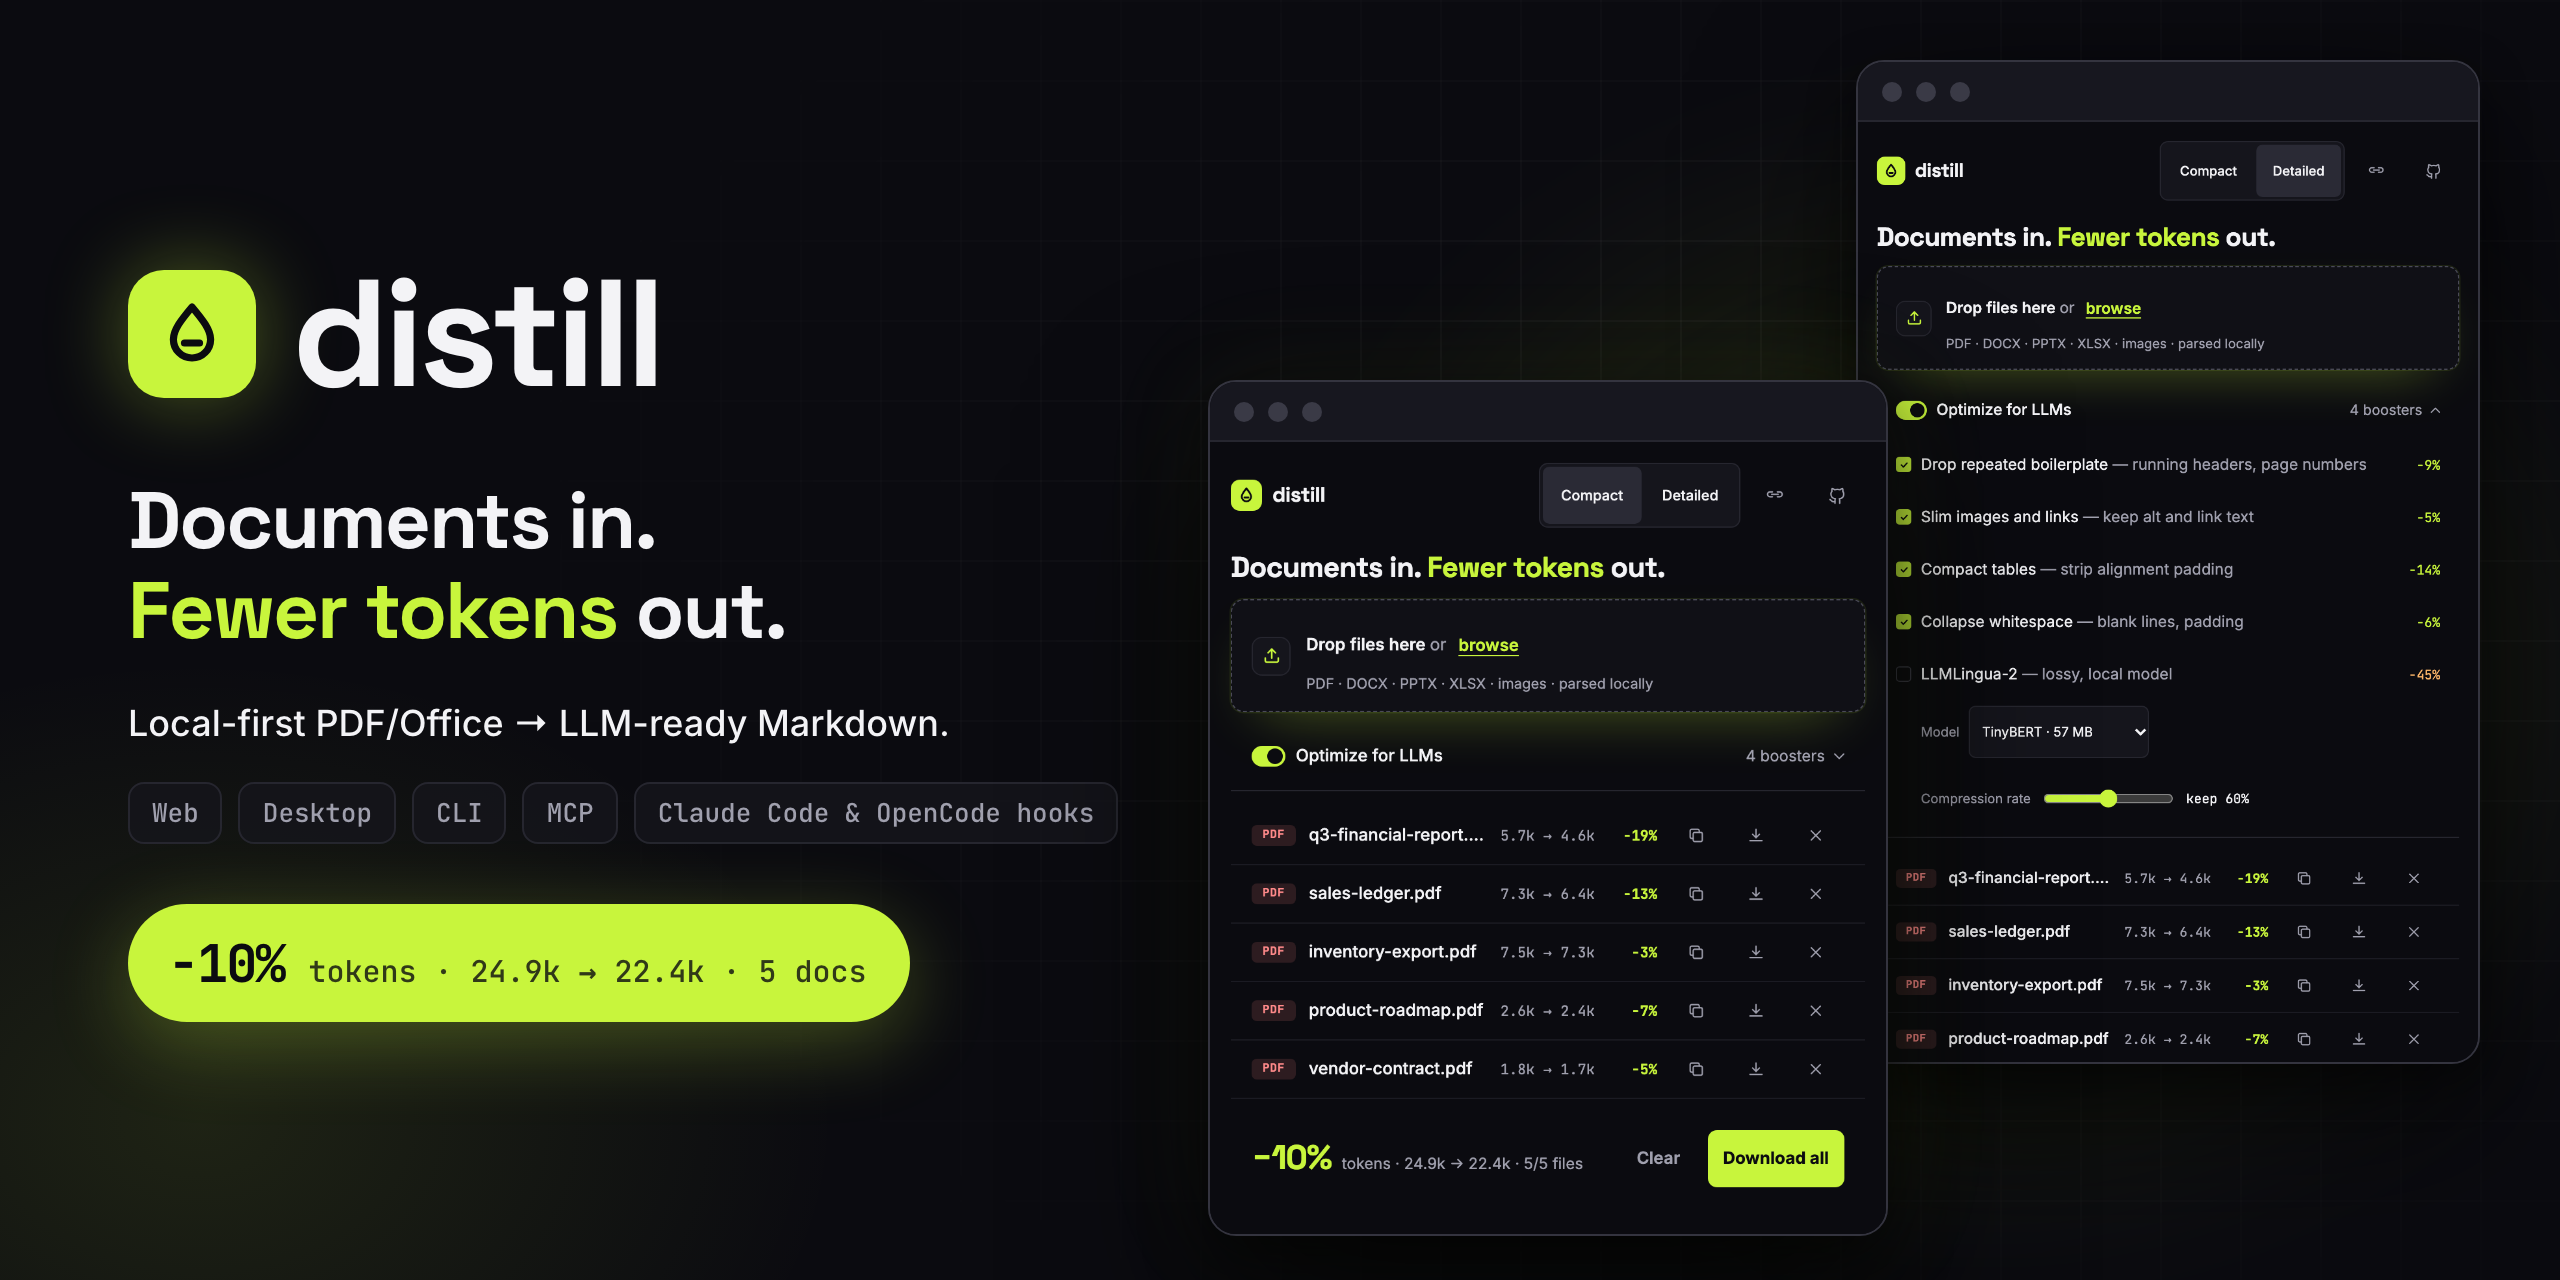
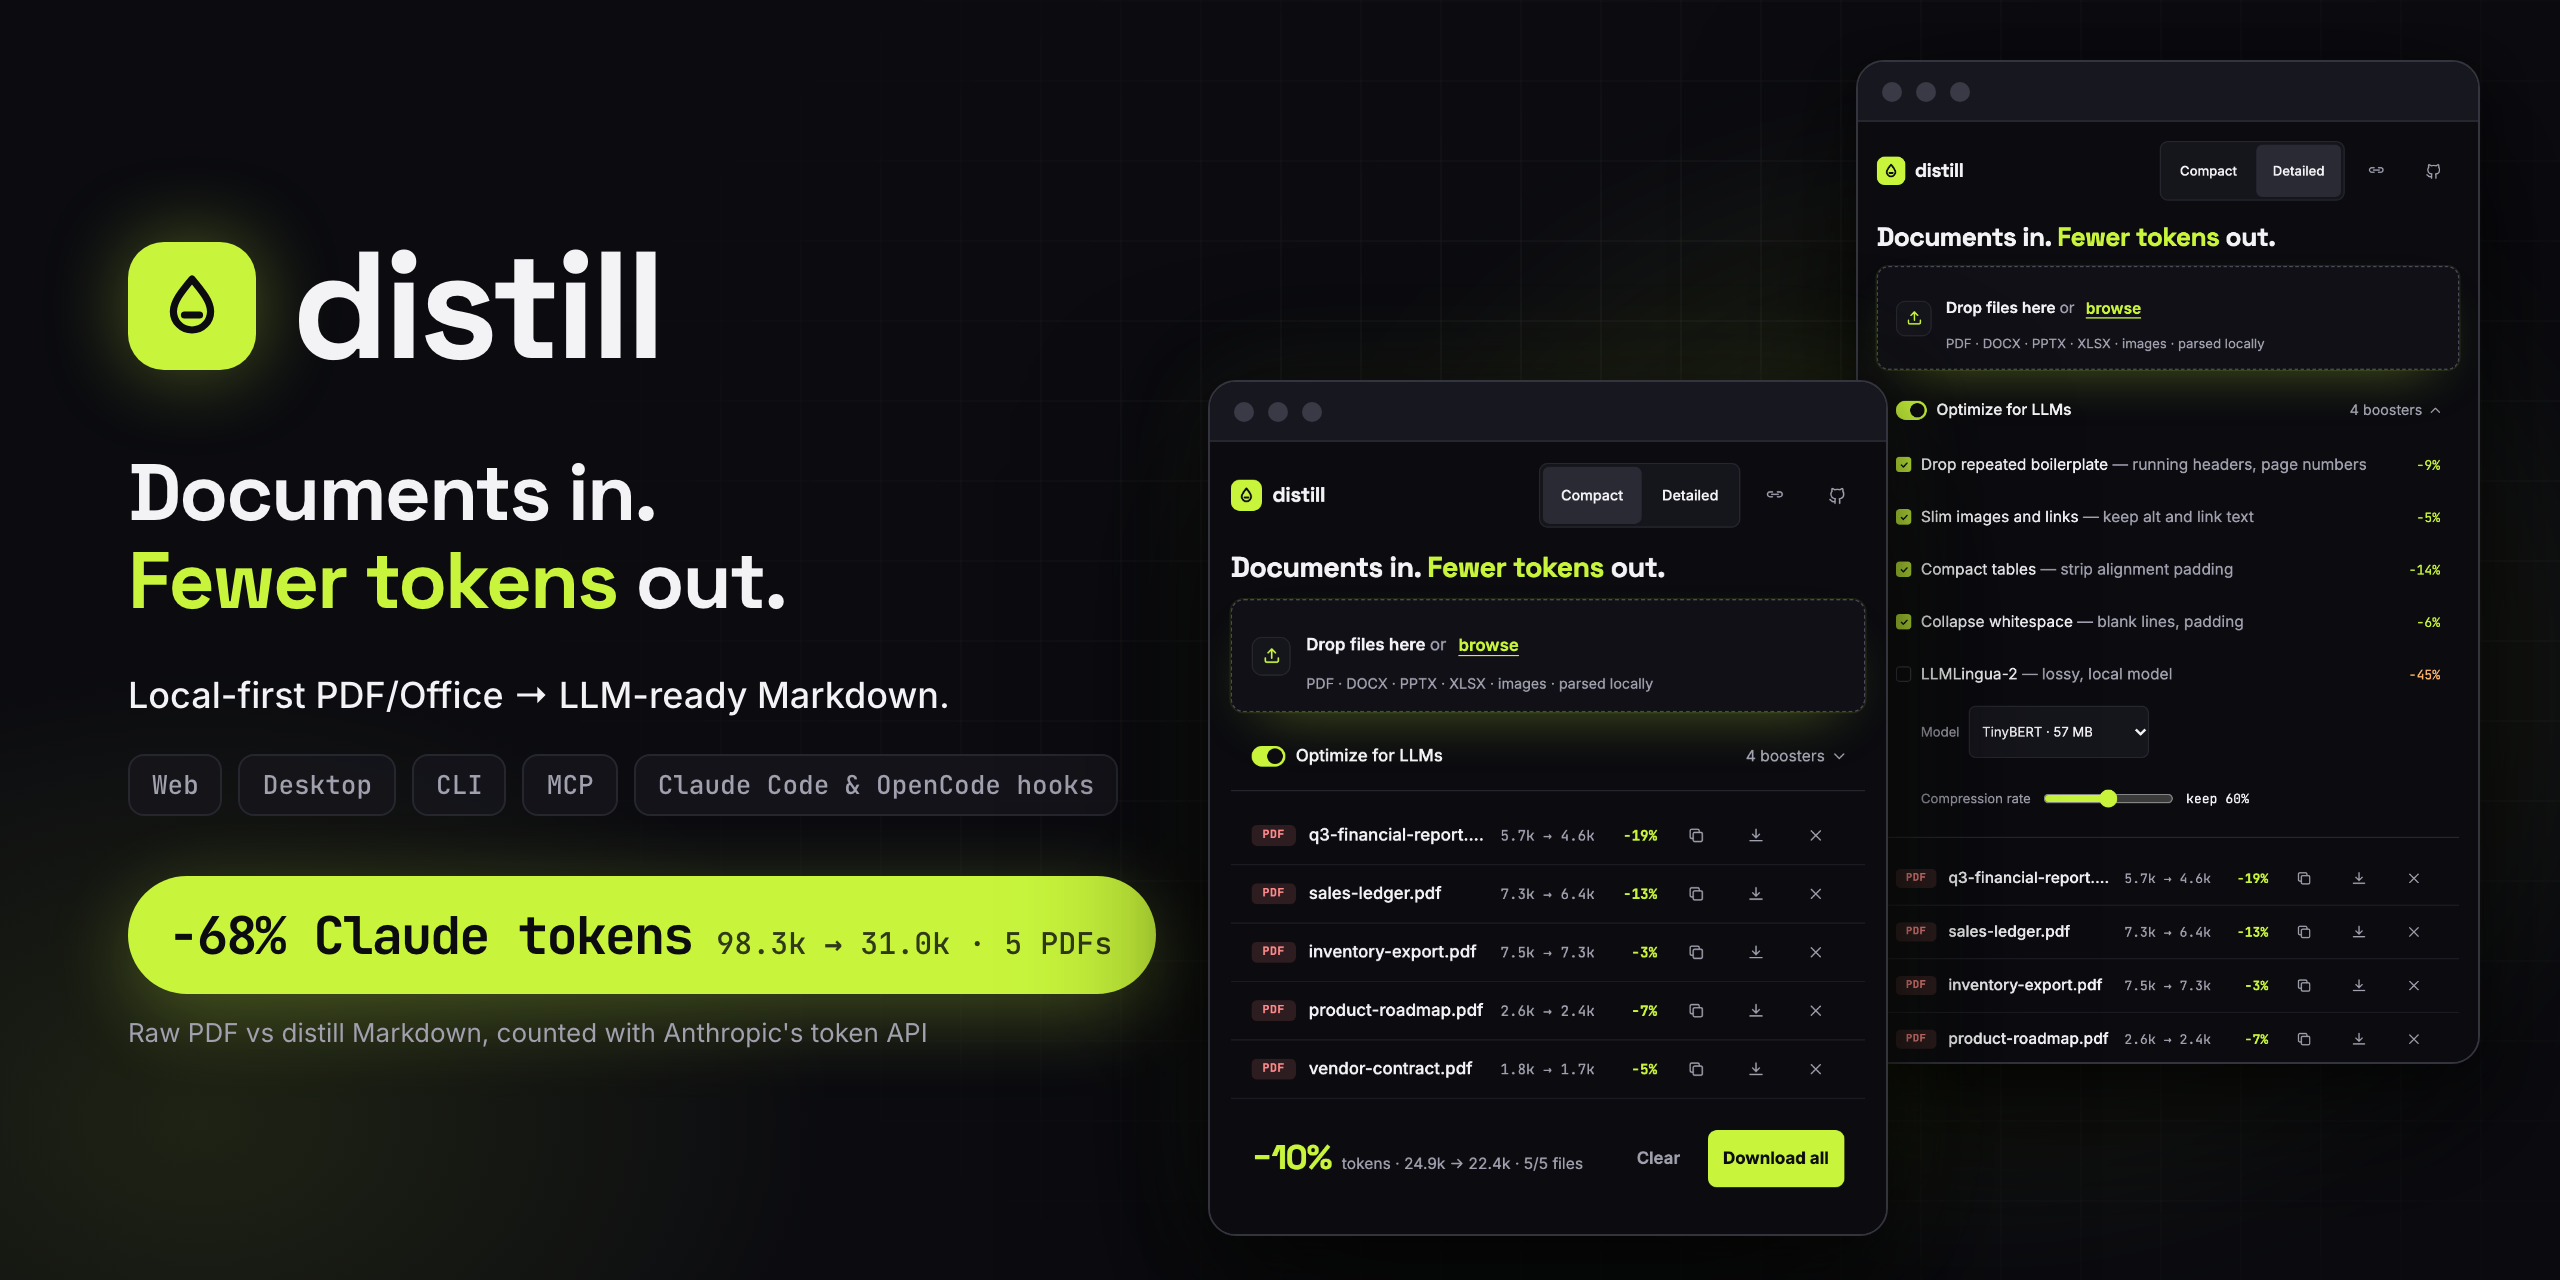
feat(site): lead with claude token savings measured on raw pdf vs markdown

Changed region(s): [[0.0312, 0.5312, 0.4688, 0.8125], [0.0312, 0.3438, 0.3125, 0.5], [0.0312, 0.1875, 0.2812, 0.3125]]

diff --git a/site/index.html b/site/index.html
@@ -4,7 +4,7 @@
 <meta charset="utf-8">
 <meta name="viewport" content="width=device-width, initial-scale=1">
 <title>distill: Documents in. Fewer tokens out.</title>
-<meta name="description" content="Turn PDFs, Office files and images into token-lean Markdown for LLMs. Runs 100% on your machine: no telemetry, no CDN. Web app, desktop, Docker, CLI, MCP server and agent hooks.">
+<meta name="description" content="Turn PDFs, Office files and images into token-lean Markdown for LLMs. Claude reads our 5 demo PDFs for 98.3k tokens; as distill Markdown, 31.0k (-68%). Runs 100% on your machine: no telemetry, no CDN. Web app, desktop, Docker, CLI, MCP server and agent hooks.">
 <link rel="canonical" href="https://nievesjesus.github.io/distill/">
 <meta name="theme-color" content="#0B0B10">
 <meta name="color-scheme" content="dark">
@@ -12,14 +12,14 @@
 <meta property="og:type" content="website">
 <meta property="og:site_name" content="distill">
 <meta property="og:title" content="distill: Documents in. Fewer tokens out.">
-<meta property="og:description" content="Turn PDFs, Office files and images into token-lean Markdown for LLMs. 100% local, open source.">
+<meta property="og:description" content="Turn PDFs, Office files and images into token-lean Markdown for LLMs. 68% fewer Claude tokens on our demo PDFs. 100% local, open source.">
 <meta property="og:url" content="https://nievesjesus.github.io/distill/">
 <meta property="og:image" content="https://nievesjesus.github.io/distill/assets/social-preview.png">
 <meta property="og:image:width" content="1280">
 <meta property="og:image:height" content="640">
 <meta name="twitter:card" content="summary_large_image">
 <meta name="twitter:title" content="distill: Documents in. Fewer tokens out.">
-<meta name="twitter:description" content="Turn PDFs, Office files and images into token-lean Markdown for LLMs. 100% local, open source.">
+<meta name="twitter:description" content="Turn PDFs, Office files and images into token-lean Markdown for LLMs. 68% fewer Claude tokens on our demo PDFs. 100% local, open source.">
 <meta name="twitter:image" content="https://nievesjesus.github.io/distill/assets/social-preview.png">
 <link rel="preload" href="fonts/space-grotesk-latin-700-normal.woff2" as="font" type="font/woff2" crossorigin>
 <link rel="preload" href="fonts/inter-latin-400-normal.woff2" as="font" type="font/woff2" crossorigin>
@@ -67,6 +67,7 @@
           <span class="copy-t">Copy</span>
         </button>
       </div>
+      <a class="proof r4" href="#savings"><span class="proof-pct">&minus;68%</span><span>Claude reads our 5 demo PDFs for 98.3k tokens. As distill Markdown: 31.0k.</span></a>
       <div class="cta r5">
         <a class="btn" href="https://github.com/nievesjesus/distill">View on GitHub</a>
         <a class="btn btn-ghost" href="https://github.com/nievesjesus/distill#readme">Read the docs</a>
@@ -120,25 +121,35 @@
 </section>
 
 <section class="savings" id="savings">
-  <div class="wrap savings-grid">
-    <div>
+  <div class="wrap">
+    <div class="savings-head">
       <p class="kicker">Measured</p>
-      <h2>Real numbers, from the app.</h2>
-      <p class="sub">Measured on the demo documents with the default boosters. Token counts use o200k_base. Your savings depend on your files: headers, footers and links repeat more in some documents than in others.</p>
+      <h2>What Claude actually pays to read your PDFs.</h2>
+      <p class="sub">We counted the input tokens Claude needs for the five demo PDFs, once as the raw PDF and once as distill's Markdown. Your files will differ: headers, footers and links repeat more in some documents than in others.</p>
     </div>
-    <div class="meter" data-total="10">
-      <div class="meter-head">
-        <span class="big" id="overall">−10%</span>
-        <span class="meter-sub">24.9k → 22.4k tokens<br>5 of 5 files</span>
+    <div class="savings-grid">
+      <div class="meter meter-primary">
+        <div class="meter-head">
+          <span class="big" id="overall">−68%</span>
+          <span class="meter-sub">98.3k → 31.0k Claude tokens<br>raw PDF vs distill Markdown, 5 PDFs</span>
+        </div>
+        <ul class="bars">
+        <li><span class="fn">vendor-contract.pdf</span><span class="bar"><b style="--w:80"></b></span><span class="tk">14.0k → 2.8k</span><span class="pc">−80%</span></li>
+        <li><span class="fn">product-roadmap.pdf</span><span class="bar"><b style="--w:77"></b></span><span class="tk">16.5k → 3.9k</span><span class="pc">−77%</span></li>
+        <li><span class="fn">q3-financial-report.pdf</span><span class="bar"><b style="--w:75"></b></span><span class="tk">25.0k → 6.4k</span><span class="pc">−75%</span></li>
+        <li><span class="fn">inventory-export.pdf</span><span class="bar"><b style="--w:59"></b></span><span class="tk">24.1k → 9.9k</span><span class="pc">−59%</span></li>
+        <li><span class="fn">sales-ledger.pdf</span><span class="bar"><b style="--w:57"></b></span><span class="tk">18.7k → 8.1k</span><span class="pc">−57%</span></li>
+        </ul>
+        <p class="meter-note">Measured with Anthropic's token counting API (claude-sonnet-5-5) on 5 demo PDFs. Your files will differ.</p>
       </div>
-      <ul class="bars">
-        <li><span class="fn">q3-financial-report.pdf</span><span class="bar"><b style="--w:19"></b></span><span class="tk">5.7k → 4.6k</span><span class="pc">−19%</span></li>
-        <li><span class="fn">sales-ledger.pdf</span><span class="bar"><b style="--w:13"></b></span><span class="tk">7.3k → 6.4k</span><span class="pc">−13%</span></li>
-        <li><span class="fn">inventory-export.pdf</span><span class="bar"><b style="--w:3"></b></span><span class="tk">7.5k → 7.3k</span><span class="pc">−3%</span></li>
-        <li><span class="fn">product-roadmap.pdf</span><span class="bar"><b style="--w:7"></b></span><span class="tk">2.6k → 2.4k</span><span class="pc">−7%</span></li>
-        <li><span class="fn">vendor-contract.pdf</span><span class="bar"><b style="--w:5"></b></span><span class="tk">1.8k → 1.7k</span><span class="pc">−5%</span></li>
-      </ul>
-      <p class="meter-note">LiteParse already returns fairly clean Markdown, so lossless savings are typically modest and bigger on table- and link-heavy documents. LLMLingua-2 (optional, lossy) goes further.</p>
+      <div class="meter meter-secondary">
+        <p class="meter-kicker">Lossless boosters, on top</p>
+        <div class="meter-head">
+          <span class="big">−10%</span>
+          <span class="meter-sub">24.9k → 22.4k tokens<br>o200k_base, 5 of 5 files</span>
+        </div>
+        <p class="meter-note">LiteParse already returns fairly clean Markdown, so lossless savings are typically modest and bigger on table- and link-heavy documents. LLMLingua-2 (optional, lossy) goes further.</p>
+      </div>
     </div>
   </div>
 </section>

diff --git a/site/styles.css b/site/styles.css
@@ -60,6 +60,9 @@ h1 em,.final h2 em{font-style:normal;color:var(--accent)}
 .copy:hover{background:#292933;border-color:#3a3a46}
 .copy.done{color:var(--accent);border-color:rgba(200,245,60,.5)}
 .cta{display:flex;flex-wrap:wrap;gap:12px;margin-top:22px}
+.proof{text-decoration:none;display:flex;align-items:center;gap:14px;margin-top:20px;max-width:34em;padding:12px 16px;border:1px solid rgba(200,245,60,.3);border-radius:14px;background:rgba(200,245,60,.06);color:var(--text);font-size:15px;line-height:1.45;transition:border-color .15s,background .15s}
+.proof:hover{border-color:rgba(200,245,60,.6);background:rgba(200,245,60,.1)}
+.proof-pct{font:700 22px/1 var(--mono);color:var(--accent);flex:none}
 .fine{font-size:14px;color:var(--muted);margin-top:18px}
 
 .hero-media{min-width:0}
@@ -111,7 +114,8 @@ h2{font-size:clamp(32px,5vw,54px);max-width:16em}
 }
 
 .savings{background:radial-gradient(50% 70% at 85% 50%,rgba(200,245,60,.07),transparent 70%)}
-.savings-grid{display:grid;gap:44px;align-items:center}
+.savings-head{max-width:46em;margin-bottom:40px}
+.savings-grid{display:grid;gap:24px;align-items:start}
 .meter{background:var(--surface);border:1px solid var(--border);border-radius:20px;padding:clamp(22px,4vw,36px)}
 .meter-head{display:flex;align-items:baseline;gap:20px;flex-wrap:wrap;padding-bottom:24px;border-bottom:1px solid var(--border)}
 .big{font:700 clamp(64px,11vw,104px)/.9 var(--display);letter-spacing:-.04em;color:var(--accent)}
@@ -126,7 +130,13 @@ h2{font-size:clamp(32px,5vw,54px);max-width:16em}
 .bars.in .bar b{animation-play-state:running}
 .tk{grid-column:1;grid-row:3;font:400 13px/1 var(--mono);color:var(--muted)}
 @keyframes grow{from{transform:scaleX(0)}to{transform:scaleX(1)}}
-@media(min-width:960px){.savings-grid{grid-template-columns:1fr 1.1fr;gap:72px}}
+.meter-primary .bar b{width:calc(var(--w) * 1%)}
+.meter-secondary{padding:clamp(20px,3vw,28px)}
+.meter-secondary .big{font-size:clamp(40px,6vw,56px)}
+.meter-secondary .meter-head{padding-bottom:0;border-bottom:0}
+.meter-secondary .meter-note{margin-top:20px}
+.meter-kicker{font:500 13px/1 var(--mono);color:var(--muted);text-transform:uppercase;letter-spacing:.08em;margin:0 0 18px}
+@media(min-width:960px){.savings-grid{grid-template-columns:1.35fr 1fr;gap:32px}}
 
 .table-wrap{margin-top:44px;border:1px solid var(--border);border-radius:var(--r);overflow-x:auto;background:var(--surface)}
 table{width:100%;border-collapse:collapse;min-width:640px;font-size:15.5px}

diff --git a/scripts/marketing/banner.html b/scripts/marketing/banner.html
@@ -165,6 +165,16 @@
     opacity: 0.8;
   }
 
+  .note {
+    margin-top: 10px;
+    align-self: flex-start;
+    font-size: 13px;
+    line-height: 1.4;
+    color: var(--muted);
+  }
+
+  .note:empty { display: none; }
+
   .win {
     position: absolute;
     border-radius: 14px;
@@ -217,6 +227,7 @@
       <span class="chip">Web</span><span class="chip">Desktop</span><span class="chip">CLI</span><span class="chip">MCP</span><span class="chip">Claude Code &amp; OpenCode hooks</span>
     </div>
     <div class="pill" id="pill"><span class="pct" id="pct">&minus;0%</span><span class="detail" id="detail"></span></div>
+    <p class="note" id="note"></p>
   </div>
 
   <div class="win back">
@@ -232,6 +243,7 @@
     const params = new URLSearchParams(location.search);
     document.getElementById('pct').textContent = params.get('pct') ?? '';
     document.getElementById('detail').textContent = params.get('detail') ?? '';
+    document.getElementById('note').textContent = params.get('note') ?? '';
   </script>
 </body>
 </html>
